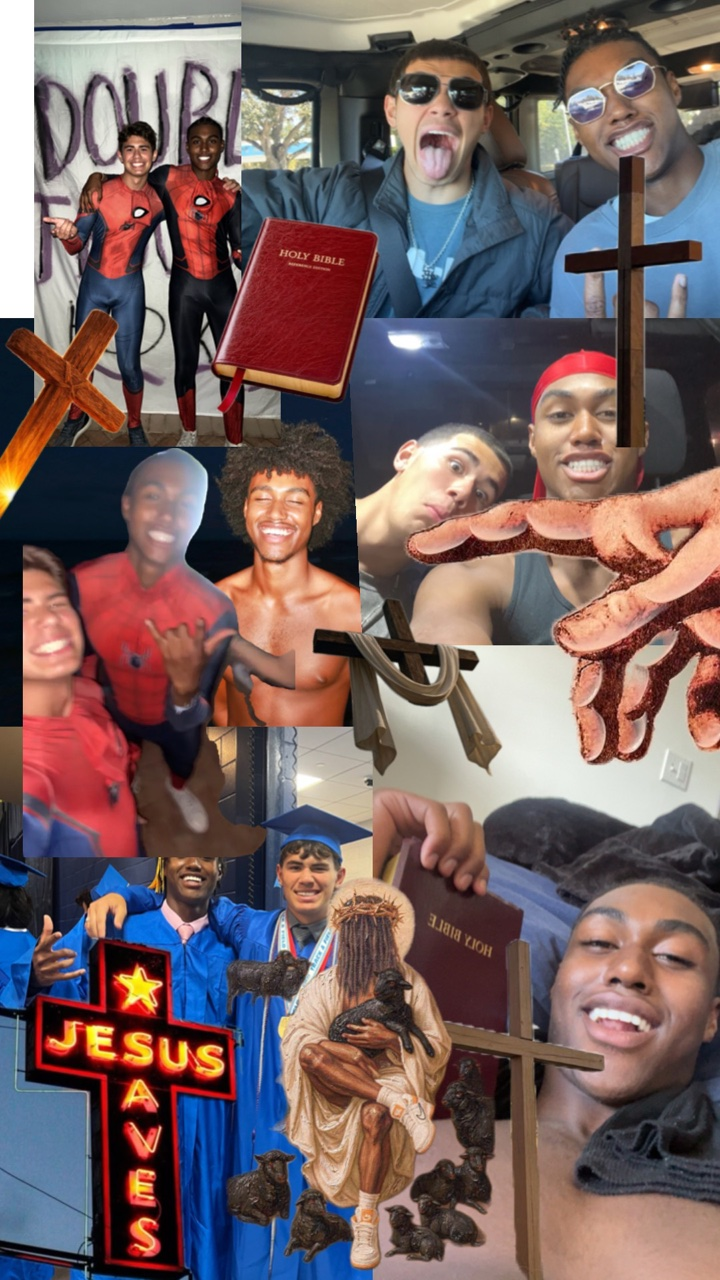
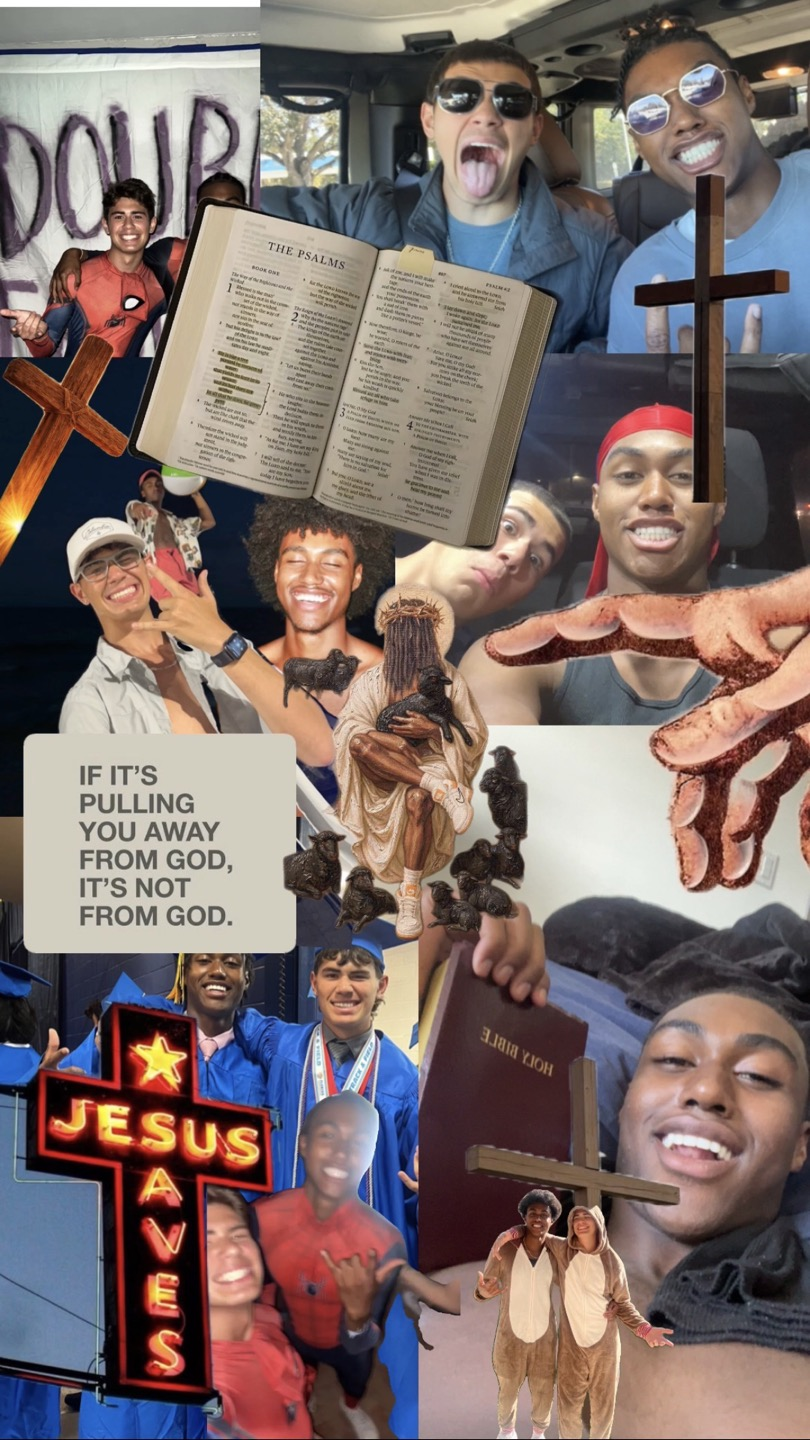
Swap Mosaic phone collages + link them to creators' Instagram
- Right tilted phone → new boys collage (IMG_2268), links to @jj.takeflight
- Left phone → new girls collage (IMG_2267), now a still image
  (was a looping video), links to @quinnlockharttt
- Add .phone-link overlay with gold focus/hover ring; open in new tab
  with rel=noopener

diff --git a/mockups/mosaic-spotlight.html b/mockups/mosaic-spotlight.html
@@ -204,6 +204,22 @@
         display: block;
         z-index: 1;
       }
+      /* Tappable phone — links the featured collage to its creator's Instagram */
+      .phone-link {
+        position: absolute;
+        inset: 0;
+        z-index: 6;
+        display: block;
+        border-radius: 30px;
+        cursor: pointer;
+        -webkit-tap-highlight-color: transparent;
+        transition: box-shadow 220ms cubic-bezier(0.16, 1, 0.3, 1);
+      }
+      .phone-link:hover,
+      .phone-link:focus-visible {
+        box-shadow: inset 0 0 0 2px rgba(240, 200, 80, 0.85);
+        outline: none;
+      }
       /* Middle phone only — shift the video content down inside the phone screen */
       .empty-phone:not(.empty-phone--bl) .empty-phone__video {
         transform: translateY(0%);
@@ -1074,13 +1090,18 @@
           <a href="#pricing" class="mosaic-showcase__cta">Build your first vision board &rarr;</a>
         </div>
 
-        <!-- MIDDLE — phone with looping Mosaic demo (video 1) -->
-        <div class="empty-phone reveal-fade reveal-fade--board" aria-hidden="true">
+        <!-- MIDDLE — phone (girls collage) → links to Quinn's Instagram -->
+        <div class="empty-phone reveal-fade reveal-fade--board">
           <div class="empty-phone__screen">
-            <video class="empty-phone__video" autoplay muted loop playsinline preload="metadata">
-              <source src="assets/mosaic/phone-1.mp4" type="video/mp4" />
-            </video>
+            <img class="empty-phone__video" src="assets/mosaic/phone-1-mosaic.jpg" alt="" />
             <span class="empty-phone__island"></span>
+            <a
+              class="phone-link"
+              href="https://www.instagram.com/quinnlockharttt/"
+              target="_blank"
+              rel="noopener noreferrer"
+              aria-label="Quinn on Instagram (@quinnlockharttt)"
+            ></a>
           </div>
         </div>
 
@@ -1091,6 +1112,13 @@
             <div class="empty-phone__screen">
               <img class="empty-phone__video" src="assets/mosaic/phone-2-mosaic.jpg" alt="" />
               <span class="empty-phone__island"></span>
+              <a
+                class="phone-link"
+                href="https://www.instagram.com/jj.takeflight/"
+                target="_blank"
+                rel="noopener noreferrer"
+                aria-label="JJ on Instagram (@jj.takeflight)"
+              ></a>
             </div>
           </div>
 
